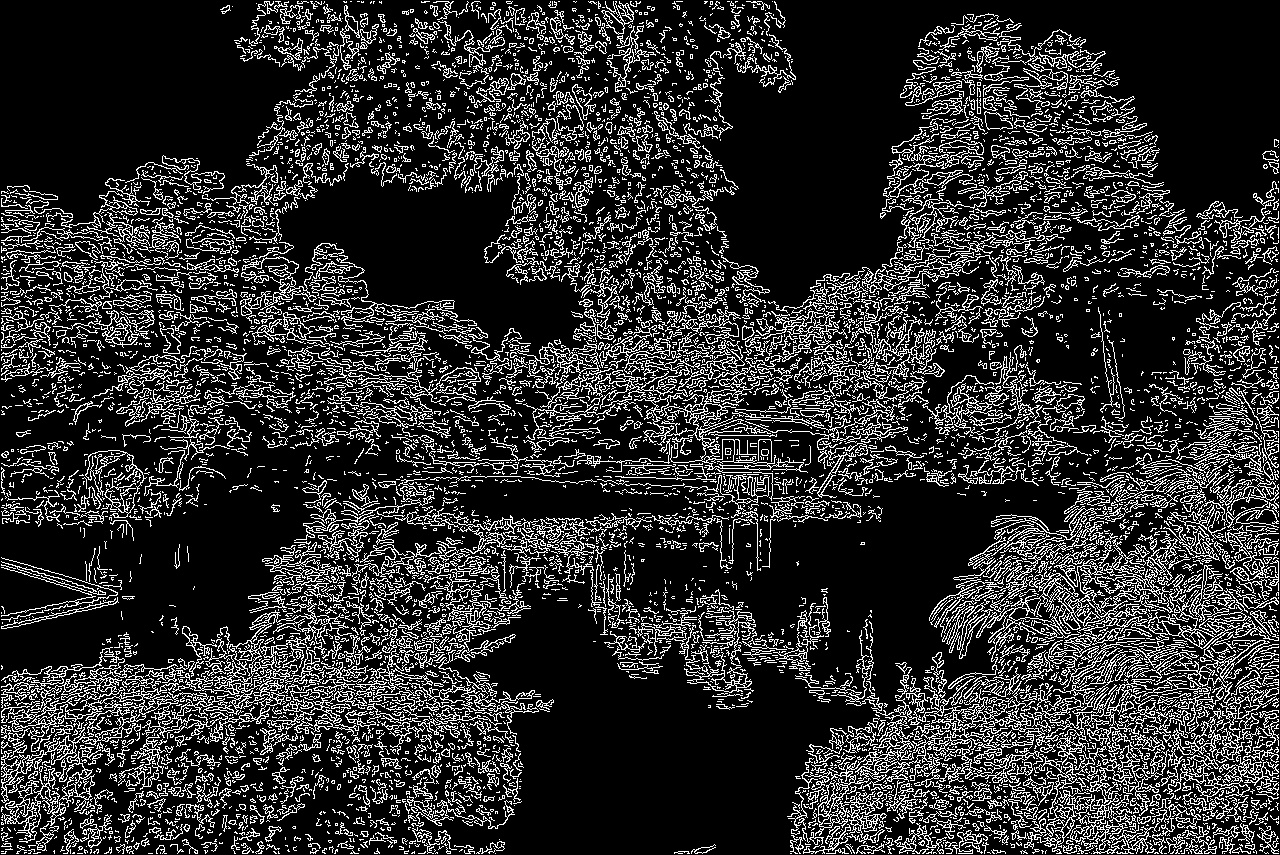
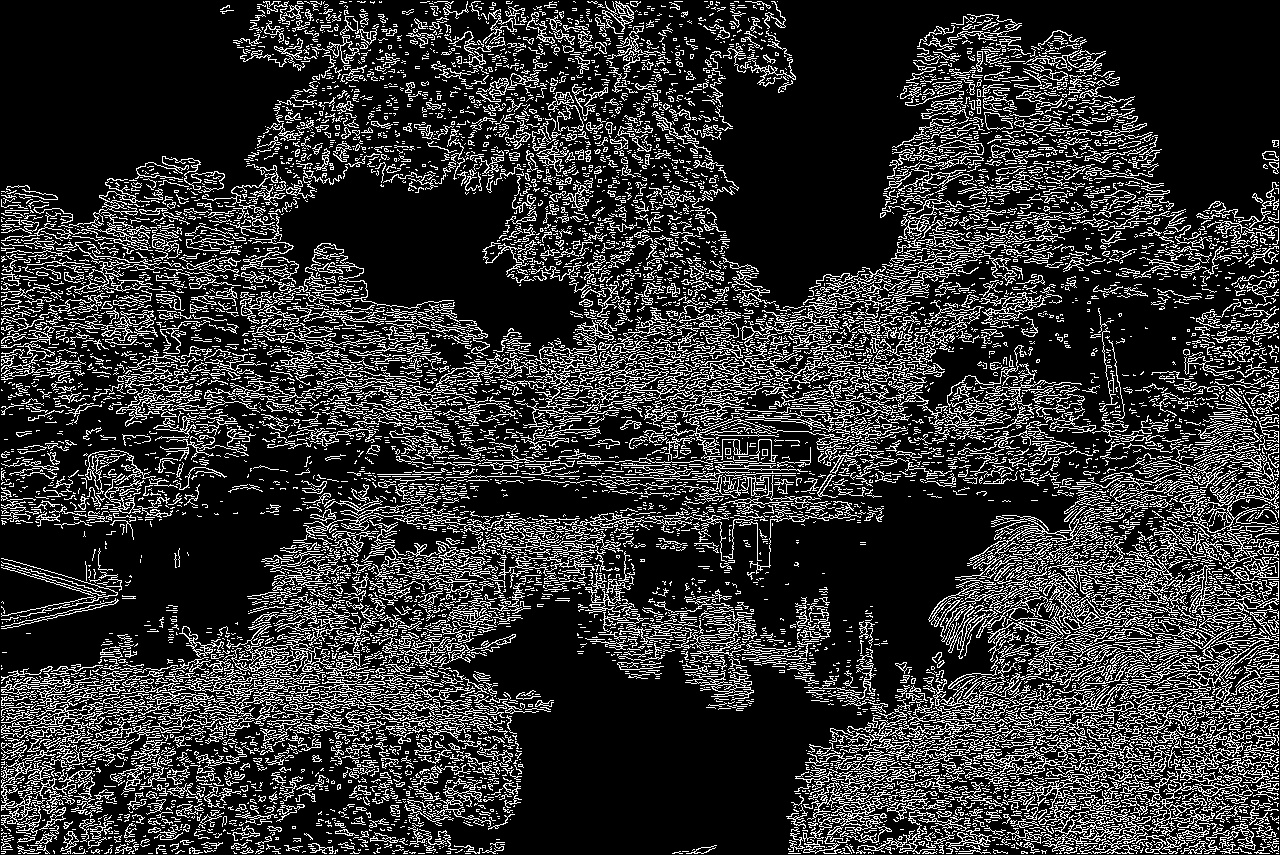
AVX512 done

diff --git a/Canny_x86/SIMD.cpp b/Canny_x86/SIMD.cpp
@@ -238,10 +238,10 @@ void AVX::A256::PerformGaussianBlur(uint8_t* Output, const uint8_t* OriImg, int 
 
                     for (int i = -KernelRadius; i <= KernelRadius; i++)
                     {
-                        int ny = y + i;
-                        if (ny >= 0 && ny < Height)
+                        int nx = x + i;
+                        if (nx >= 0 && nx < Width)
                         {
-                            int    ImgIdx    = ny * Width + x;
+                            int    ImgIdx    = y * Width + nx;
                             __m256 ImgPixel  = _mm256_loadu_ps(&Tmp[ImgIdx]);
                             __m256 KernelVal = _mm256_set1_ps(GaussianKernel_1D[KernelRadius + i]);
                             PixelVal         = _mm256_add_ps(PixelVal, _mm256_mul_ps(ImgPixel, KernelVal));
@@ -251,6 +251,179 @@ void AVX::A256::PerformGaussianBlur(uint8_t* Output, const uint8_t* OriImg, int 
 
                     __m256 InvKernelSum = _mm256_div_ps(_mm256_set1_ps(1.0f), KernelSum);
                     _mm256_storeu_ps(&Tmp[y * Width + x], _mm256_mul_ps(PixelVal, InvKernelSum));
+                }
+
+                for (; x < Width; x++)
+                {
+                    float PixelVal  = 0.0f;
+                    float KernelSum = 0.0f;
+                    for (int i = -KernelRadius; i <= KernelRadius; i++)
+                    {
+                        int nx = x + i;
+                        if (nx >= 0 && nx < Width)
+                        {
+                            int   ImgIdx    = y * Width + nx;
+                            float ImgPixel  = Tmp[ImgIdx];
+                            float KernelVal = GaussianKernel_1D[KernelRadius + i];
+                            PixelVal += ImgPixel * KernelVal;
+                            KernelSum += KernelVal;
+                        }
+                    }
+                    Tmp[y * Width + x] = PixelVal / KernelSum;
+                }
+            }
+        });
+    }
+    for (auto& Th : Threads) Th.join();
+
+    for (int i = 0; i < Width * Height; i++) Output[i] = static_cast<uint8_t>(Tmp[i]);
+}
+
+void AVX::A512::PerformGaussianBlur(uint8_t* Output, const uint8_t* OriImg, int Width, int Height)
+{
+    std::vector<float>       Tmp(Width * Height, 0.0f);
+    int                      ThreadsNum = std::thread::hardware_concurrency();
+    std::vector<std::thread> Threads(ThreadsNum);
+
+    for (int t = 0; t < ThreadsNum; ++t)
+    {
+        Threads[t] = std::thread([&, t]() {
+            int RowPerThread = Height / ThreadsNum;
+            int Start        = t * RowPerThread;
+            int End          = (t == ThreadsNum - 1) ? Height : Start + RowPerThread;
+            for (int y = Start; y < End; y++)
+            {
+                int x = 0;
+                for (; x <= Width - 16; x += 16)
+                {
+                    __m512 PixelVal  = _mm512_setzero_ps();
+                    __m512 KernelSum = _mm512_setzero_ps();
+
+                    for (int i = -KernelRadius; i <= KernelRadius; i++)
+                    {
+                        int nx = x + i;
+                        if (nx >= 0 && nx < Width)
+                        {
+                            int    ImgIdx = y * Width + nx;
+                            __m512 ImgPixel =
+                                _mm512_cvtepi32_ps(_mm512_cvtepu8_epi32(_mm_loadu_si128((__m128i*)&OriImg[ImgIdx])));
+                            __m512 KernelVal = _mm512_set1_ps(GaussianKernel_1D[KernelRadius + i]);
+                            PixelVal         = _mm512_add_ps(PixelVal, _mm512_mul_ps(ImgPixel, KernelVal));
+                            KernelSum        = _mm512_add_ps(KernelSum, KernelVal);
+                        }
+                    }
+
+                    __m512 InvKernelSum = _mm512_div_ps(_mm512_set1_ps(1.0f), KernelSum);
+                    _mm512_storeu_ps(&Tmp[y * Width + x], _mm512_mul_ps(PixelVal, InvKernelSum));
+                }
+
+                for (; x < Width; x++)
+                {
+                    float PixelVal  = 0.0f;
+                    float KernelSum = 0.0f;
+                    for (int i = -KernelRadius; i <= KernelRadius; i++)
+                    {
+                        int nx = x + i;
+                        if (nx >= 0 && nx < Width)
+                        {
+                            int   ImgIdx    = y * Width + nx;
+                            float ImgPixel  = static_cast<float>(OriImg[ImgIdx]);
+                            float KernelVal = GaussianKernel_1D[KernelRadius + i];
+                            PixelVal += ImgPixel * KernelVal;
+                            KernelSum += KernelVal;
+                        }
+                    }
+                    Tmp[y * Width + x] = PixelVal / KernelSum;
+                }
+            }
+        });
+    }
+    for (auto& Th : Threads) Th.join();
+
+    for (int t = 0; t < ThreadsNum; ++t)
+    {
+        Threads[t] = std::thread([&, t]() {
+            int RowPerThread = Height / ThreadsNum;
+            int Start        = t * RowPerThread;
+            int End          = (t == ThreadsNum - 1) ? Height : Start + RowPerThread;
+            for (int y = Start; y < End; y++)
+            {
+                int x = 0;
+                for (; x <= Width - 16; x += 16)
+                {
+                    __m512 PixelVal  = _mm512_setzero_ps();
+                    __m512 KernelSum = _mm512_setzero_ps();
+
+                    for (int i = -KernelRadius; i <= KernelRadius; i++)
+                    {
+                        int nx = x + i;
+                        if (nx >= 0 && nx < Width)
+                        {
+                            int    ImgIdx = y * Width + nx;
+                            __m512 ImgPixel =
+                                _mm512_cvtepi32_ps(_mm512_cvtepu8_epi32(_mm_loadu_si128((__m128i*)&OriImg[ImgIdx])));
+                            __m512 KernelVal = _mm512_set1_ps(GaussianKernel_1D[KernelRadius + i]);
+                            PixelVal         = _mm512_add_ps(PixelVal, _mm512_mul_ps(ImgPixel, KernelVal));
+                            KernelSum        = _mm512_add_ps(KernelSum, KernelVal);
+                        }
+                    }
+
+                    __m512 InvKernelSum = _mm512_div_ps(_mm512_set1_ps(1.0f), KernelSum);
+                    _mm512_storeu_ps(&Tmp[y * Width + x], _mm512_mul_ps(PixelVal, InvKernelSum));
+                }
+
+                for (; x < Width; x++)
+                {
+                    float PixelVal  = 0.0f;
+                    float KernelSum = 0.0f;
+                    for (int i = -KernelRadius; i <= KernelRadius; i++)
+                    {
+                        int nx = x + i;
+                        if (nx >= 0 && nx < Width)
+                        {
+                            int   ImgIdx    = y * Width + nx;
+                            float ImgPixel  = static_cast<float>(OriImg[ImgIdx]);
+                            float KernelVal = GaussianKernel_1D[KernelRadius + i];
+                            PixelVal += ImgPixel * KernelVal;
+                            KernelSum += KernelVal;
+                        }
+                    }
+                    Tmp[y * Width + x] = PixelVal / KernelSum;
+                }
+            }
+        });
+    }
+    for (auto& Th : Threads) Th.join();
+
+    std::vector<float> OutputTmp(Width * Height, 0.0f);
+    for (int t = 0; t < ThreadsNum; ++t)
+    {
+        Threads[t] = std::thread([&, t]() {
+            int RowPerThread = Height / ThreadsNum;
+            int Start        = t * RowPerThread;
+            int End          = (t == ThreadsNum - 1) ? Height : Start + RowPerThread;
+            for (int y = Start; y < End; y++)
+            {
+                int x = 0;
+                for (; x <= Width - 16; x += 16)
+                {
+                    __m512 PixelVal  = _mm512_setzero_ps();
+                    __m512 KernelSum = _mm512_setzero_ps();
+
+                    for (int i = -KernelRadius; i <= KernelRadius; i++)
+                    {
+                        int ny = y + i;
+                        if (ny >= 0 && ny < Height)
+                        {
+                            int    ImgIdx    = ny * Width + x;
+                            __m512 ImgPixel  = _mm512_loadu_ps(&Tmp[ImgIdx]);
+                            __m512 KernelVal = _mm512_set1_ps(GaussianKernel_1D[KernelRadius + i]);
+                            PixelVal         = _mm512_add_ps(PixelVal, _mm512_mul_ps(ImgPixel, KernelVal));
+                            KernelSum        = _mm512_add_ps(KernelSum, KernelVal);
+                        }
+                    }
+                    __m512 InvKernelSum = _mm512_div_ps(_mm512_set1_ps(1.0f), KernelSum);
+                    _mm512_storeu_ps(&OutputTmp[y * Width + x], _mm512_mul_ps(PixelVal, InvKernelSum));
                 }
 
                 for (; x < Width; x++)
@@ -269,12 +442,11 @@ void AVX::A256::PerformGaussianBlur(uint8_t* Output, const uint8_t* OriImg, int 
                             KernelSum += KernelVal;
                         }
                     }
-                    Tmp[y * Width + x] = PixelVal / KernelSum;
+                    OutputTmp[y * Width + x] = PixelVal / KernelSum;
                 }
             }
         });
     }
     for (auto& Th : Threads) Th.join();
-
-    for (int i = 0; i < Width * Height; i++) Output[i] = static_cast<uint8_t>(Tmp[i]);
+    for (int i = 0; i < Width * Height; i++) Output[i] = static_cast<uint8_t>(OutputTmp[i]);
 }
